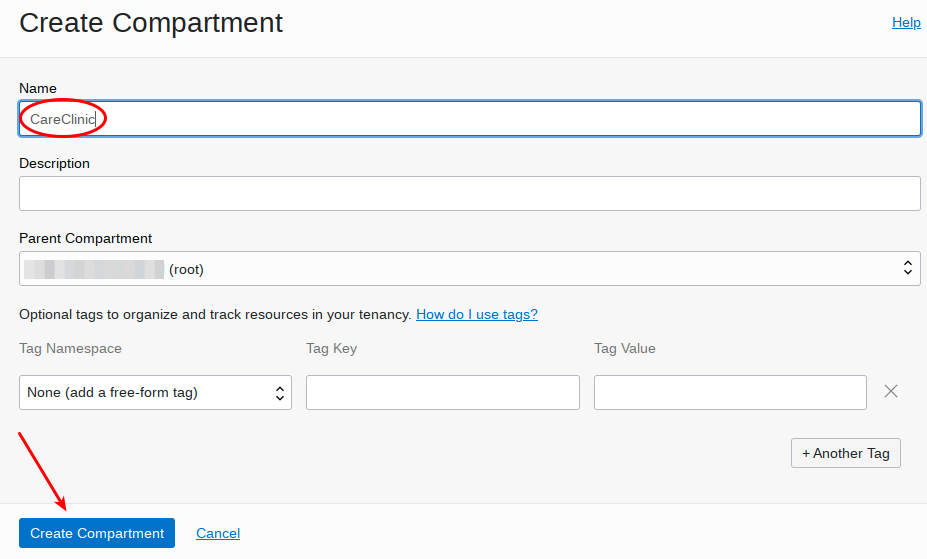
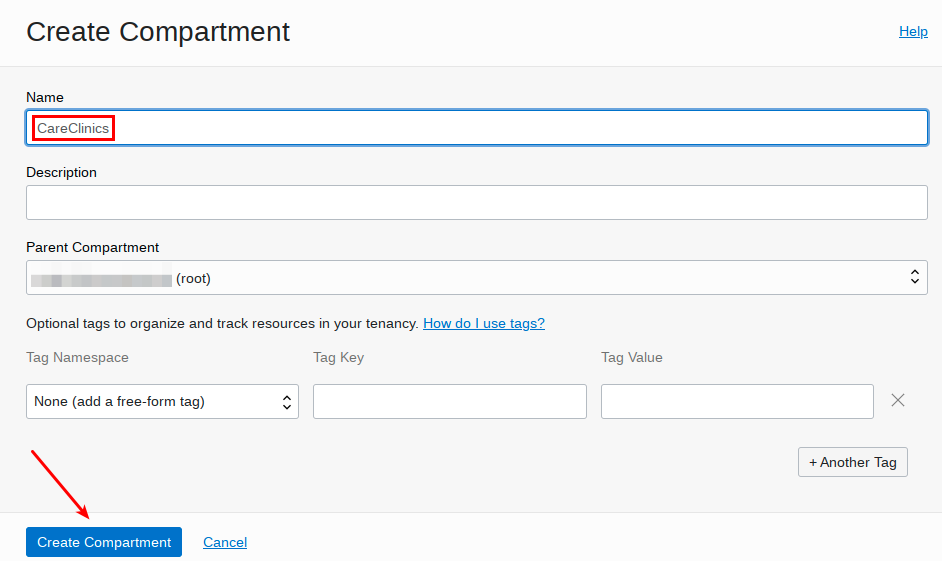
fixes and add homework

diff --git a/applied-developer-course/lab1-introduction-to-oci/intro-to-oci.md b/applied-developer-course/lab1-introduction-to-oci/intro-to-oci.md
@@ -28,7 +28,7 @@ This lab will introduce you to Oracle Cloud Infrastructure (OCI), and take you t
 
     ![](./images/002.png " ")
 
-2. Once you are logged in, you are taken to the cloud services dashboard where you can see all the services available to you. Click the navigation menu in the upper left to show top level navigation choices.  Note you can search for a service across all the menu items and also pin you favorites.  When you're done reviewing the menu items click the X to close the window.
+2. Once you are logged in, you are taken to the cloud services dashboard where you can see all the services available to you. Click the navigation menu in the upper left to show top level navigation choices.  Note you can search for a service across all the menu items and also pin your favorites.  When you're done reviewing the menu items click the X to close the window.
 
     ![](./images/003.png " ")
 
@@ -38,7 +38,7 @@ This lab will introduce you to Oracle Cloud Infrastructure (OCI), and take you t
 
     ![](./images/005.png " ")
 
-    [Oracle Regions as at June 2022](https://docs.oracle.com/en-us/iaas/Content/General/Concepts/regions.htm)
+    [Oracle Regions](https://docs.oracle.com/en-us/iaas/Content/General/Concepts/regions.htm)
 
 
 ## Task 2: Learn Identity and Access Management Basics
@@ -47,7 +47,7 @@ This lab will introduce you to Oracle Cloud Infrastructure (OCI), and take you t
 
 ## Task 3: Create a Compartment
 
-1. Compartments are the primary means to organize, segregate, and manage access to OCI resources.  Every tenancy has a root compartment under which you create additional sub-compartments and sub-sub compartments (maximum six levels deep).  Compartments are tenancy-wide across regions. When you create a compartment, it is available in every region that your tenancy is subscribed to. You can get a cross-region view of your resources in a specific compartment with the tenancy explorer. See [Viewing All Resources in a Compartment](https://docs.oracle.com/en-us/iaas/Content/General/Concepts/compartmentexplorer.htm#Viewing_All_Resources_in_a_Compartment).  We will create a compartment called **CareClinic** for this course/workshop and create all related services in this compartment.  Navigate to the menu in the upper left and select Identity and Security, and then Compartments.
+1. Compartments are the primary means to organize, segregate, and manage access to OCI resources.  Every tenancy has a root compartment under which you create additional sub-compartments and sub-sub compartments (maximum six levels deep).  Compartments are tenancy-wide across regions. When you create a compartment, it is available in every region that your tenancy is subscribed to. You can get a cross-region view of your resources in a specific compartment with the tenancy explorer. See [Viewing All Resources in a Compartment](https://docs.oracle.com/en-us/iaas/Content/General/Concepts/compartmentexplorer.htm#Viewing_All_Resources_in_a_Compartment).  We will create a compartment called **CareClinics** for this course/workshop and create all related services in this compartment.  Navigate to the menu in the upper left and select Identity and Security, and then Compartments.
 
     ![](./images/006.png " ")
 
@@ -132,7 +132,7 @@ This lab will introduce you to Oracle Cloud Infrastructure (OCI), and take you t
 
 3. Create your VCN.  
 
-    In this lab we will use the wizard to create our VCN.  However in the future developers would be advised to use the manual approach to creating VCNs as this will facilitate a greater understanding of the underlying components and give greater freedom to creating custom VCNs.  Select the **CareClinic** Compartment you created earlier on the left and then select **Start VCN Wizard**.
+    In this lab we will use the wizard to create our VCN.  However in the future developers would be advised to use the manual approach to creating VCNs as this will facilitate a greater understanding of the underlying components and give greater freedom to creating custom VCNs.  Select the **CareClinics** Compartment you created earlier on the left and then select **Start VCN Wizard**.
 
     ![](./images/019.png " ")
 
@@ -160,7 +160,7 @@ This lab will introduce you to Oracle Cloud Infrastructure (OCI), and take you t
 
 1. Introduction.  
 
-    This task is an awareness exercise but should be covered as part of OCI's foundation services.  As with other foundational OCI services storage is big topic and you are encouraged to explore this topic beyond this course.  Here are the different types of storage and their durability, capacity, unit size, and use case.  Note the following storage types.
+    This task is an awareness exercise but should be covered as part of OCI's foundation services.  As with other foundational OCI services storage is big topic and you are encouraged to explore this topic beyond this course.  Here are the different types of storage and their durability, capacity, unit size, and use case. 
 
     ![](./images/027.png " ")
 
@@ -172,7 +172,7 @@ This lab will introduce you to Oracle Cloud Infrastructure (OCI), and take you t
 
 3. Create an Object Storage Bucket
 
-    Since we will be working with Object Storage later in this workshop we'll create a new bucket called **CareClinic** in the CareClinic Compartment.  Navigate to Object Storage
+    Since we will be working with Object Storage later in this workshop we'll create a new bucket called **CareClinic** in the CareClinics Compartment.  Navigate to Object Storage
 
     ![](./images/031.png " ")
 
@@ -327,10 +327,21 @@ This lab will introduce you to Oracle Cloud Infrastructure (OCI), and take you t
 
     ![](./images/061.png " ")
 
-7. Terminate the compute image.
+7. Do the homework noted below.
+
+8. Terminate the compute image.
 
     Navigate to the instance and select delete.
 
     ![](./images/059.png " ")
 
     ![](./images/060.png " ")
+
+## Homework: Attach a Block Volume to your Compute Image
+
+The Oracle Cloud Infrastructure Block Volume service lets you dynamically provision and manage block storage volumes. You can create, attach, connect and move volumes as needed to meet your storage and application requirements. Once attached and connected to an instance, you can use a volume like a regular hard drive. Volumes can also be disconnected and attached to another instance without the loss of data.
+
+For homework you will:
+- Create a Block Volume
+- Attach the Block Volume to your instance
+- Mount the Block Volume
